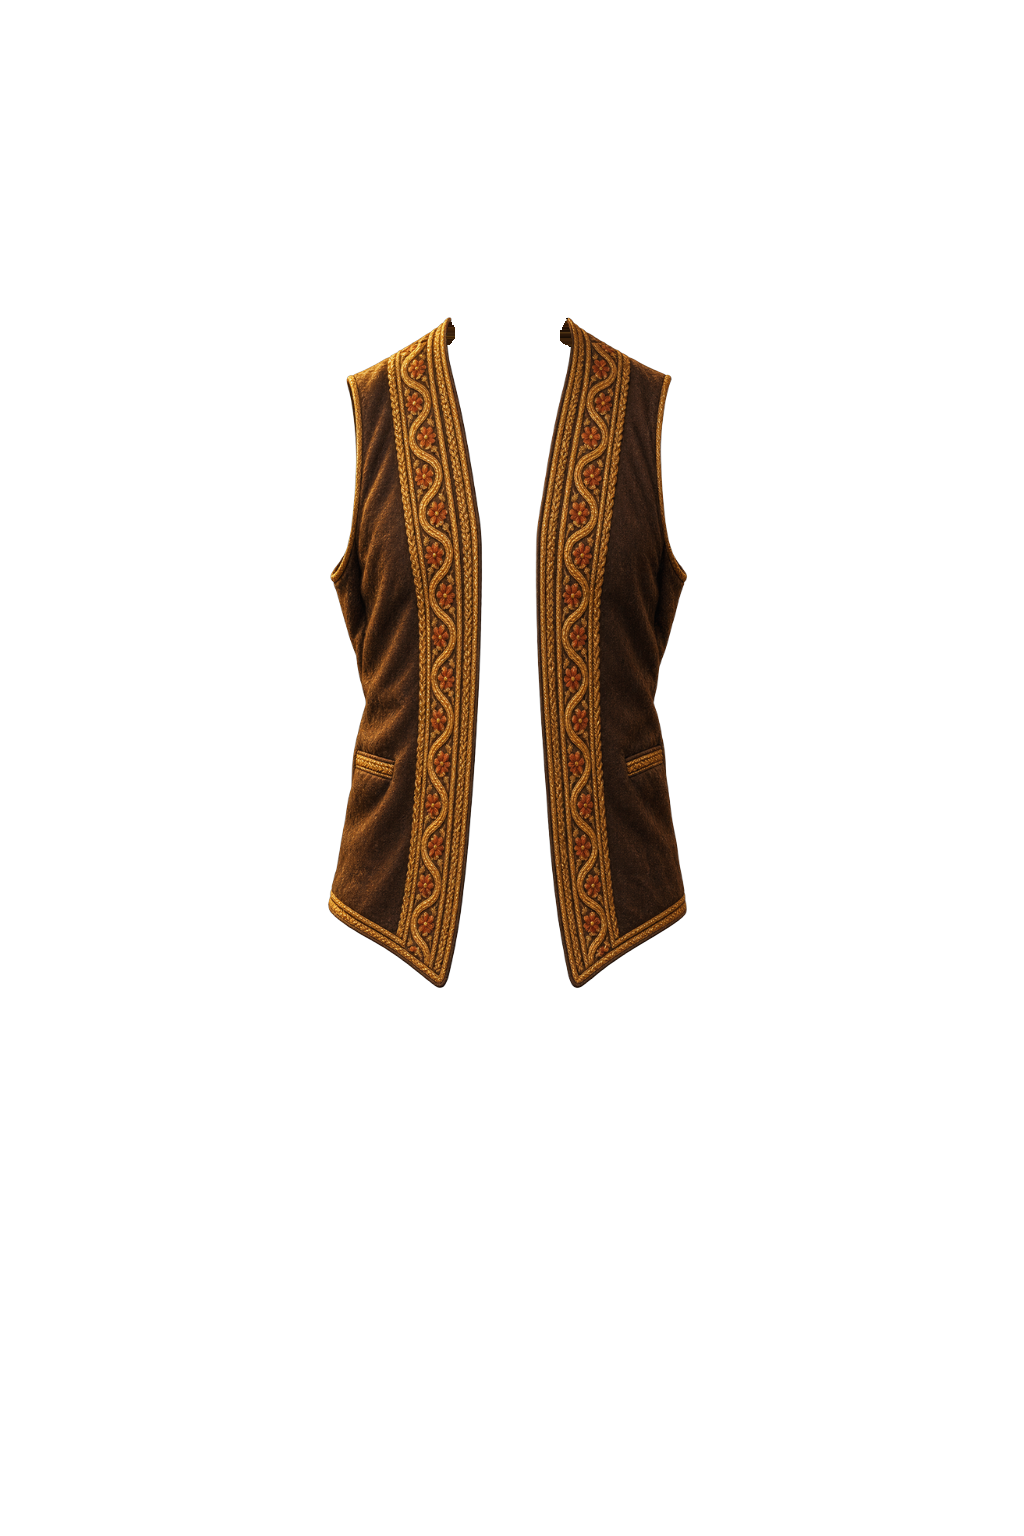
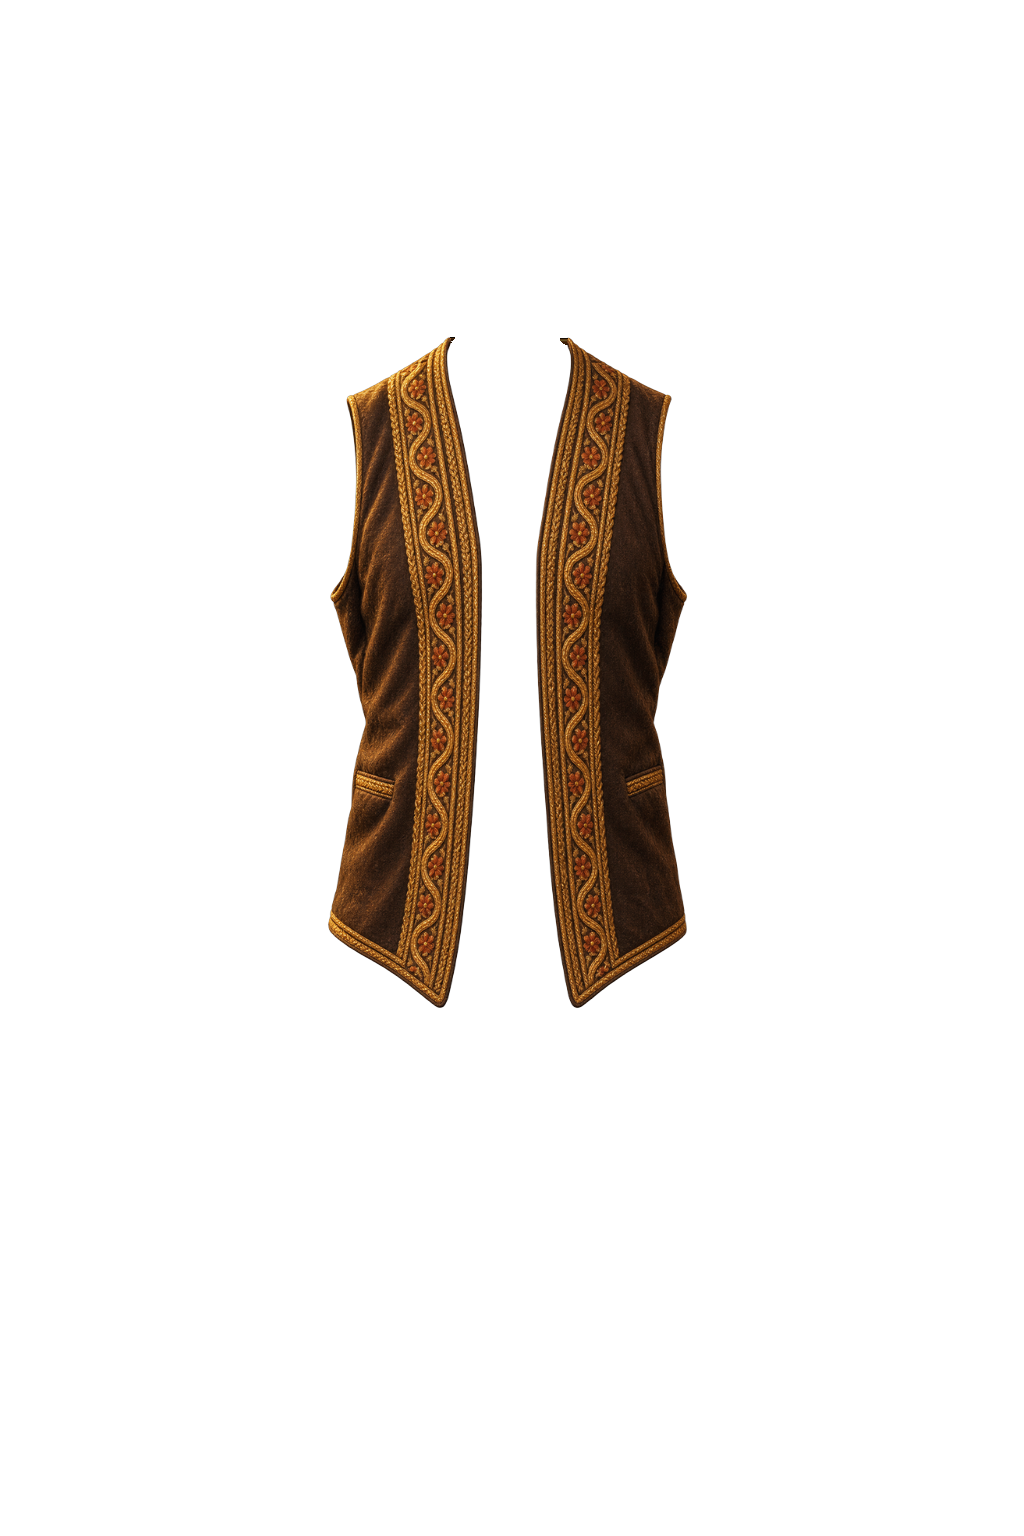
Wardrobe: vest rests on the shoulders; feet inside the shoes
- The vest's top edge rode up his neck. refit.py now sets it at the base of
  the neck, so it lies on his shoulders.
- tools/feet.py writes <shoe>-foot masks; while shoes are worn the base body
  is masked so his bare heel and toes no longer poke out around them, and he
  stands in the shoes instead of beside them.

Claude-Session: https://claude.ai/code/session_01RsyrrUsDDaKTV5xQN8SsoM

Changed region(s): [[0.3125, 0.1875, 0.4688, 0.6562], [0.5, 0.1875, 0.6875, 0.6562]]

diff --git a/src/components/Wardrobe/HeroFigure.tsx b/src/components/Wardrobe/HeroFigure.tsx
@@ -1,5 +1,5 @@
 import { useEffect, useMemo, useState } from 'react';
-import { PIECES, POSE_INFO, baseSrc, coverSrc, layerSrc, wornIds, type FitTable, type Outfit, type Pose } from '../../data/wardrobe';
+import { PIECES, POSE_INFO, baseSrc, coverSrc, footSrc, layerSrc, wornIds, type FitTable, type Outfit, type Pose } from '../../data/wardrobe';
 import { FIT } from '../../data/wardrobeFit';
 import './Wardrobe.css';
 
@@ -50,6 +50,12 @@ export function HeroFigure({ pose, outfit, fit = FIT, highlight, className = '',
   // a coat with sleeves hides the shirt under it outside its own outline
   const coat = outfit.outer && PIECES[outfit.outer]?.hidesUnder ? coverSrc(pose, outfit.outer) : null;
   const coatMask = useLoaded(coat);
+  // shoes hide his bare foot where it would poke out around them (full-length pose only)
+  const feet = pose === 'wardrobe' && outfit.feet && PIECES[outfit.feet] ? footSrc(pose, outfit.feet) : null;
+  const feetMask = useLoaded(feet);
+  const baseStyle: React.CSSProperties = feet && feetMask
+    ? { WebkitMaskImage: `url(${feet})`, maskImage: `url(${feet})`, WebkitMaskSize: '100% 100%', maskSize: '100% 100%', WebkitMaskRepeat: 'no-repeat', maskRepeat: 'no-repeat' }
+    : {};
   const layerImg = (p: (typeof layers)[number]) => {
     const src = layerSrc(pose, p.id);
     if (miss.has(src)) return null;
@@ -70,7 +76,7 @@ export function HeroFigure({ pose, outfit, fit = FIT, highlight, className = '',
           <span>Base picture not painted yet</span>
         </div>
       ) : (
-        <img className="hero-layer" src={base} alt="" onError={() => markMissing(base)} draggable={false} />
+        <img className="hero-layer" src={base} alt="" style={baseStyle} onError={() => markMissing(base)} draggable={false} />
       )}
       {!baseMissing && layers.filter((p) => p.z >= 0).map((p) => layerImg(p))}
     </div>

diff --git a/src/data/wardrobe.ts b/src/data/wardrobe.ts
@@ -222,6 +222,8 @@ export function wardrobeFromLegacy(owned: string[], worn: string): WardrobeState
 export const baseSrc = (pose: Pose) => `art/hero/hero-base-${pose}.webp`;
 export const layerSrc = (pose: Pose, id: string) => `art/hero/${pose}/${id}.webp`;
 export const coverSrc = (pose: Pose, id: string) => `art/hero/${pose}/${id}-cover.webp`;
+/** For shoes: a mask over the base body that hides his bare foot around the shoe (tools/feet.py). */
+export const footSrc = (pose: Pose, id: string) => `art/hero/${pose}/${id}-foot.webp`;
 
 /** Nudges for layers that came back from the generator a little off. Filled in from the wardrobe's fit mode. */
 export interface Fit { x: number; y: number; s: number }

diff --git a/tools/feet.py b/tools/feet.py
@@ -1,0 +1,85 @@
+#!/usr/bin/env python3
+"""Put his feet inside the shoes.
+
+  python3 tools/feet.py [<shoe id> ...]      (no ids = every pair; run after tools/refit.py)
+
+The shoes come from the image generator as empty shoes: the lining shows where his foot should
+go in, and his bare foot, drawn underneath, pokes out around them at the heel and toes.
+For each shoe this writes <id>-foot.png, a mask for the base body that hides his bare foot wherever it
+    shows below the top of the shoe outside it (the game applies it while the shoes are worn).
+"""
+import sys
+from pathlib import Path
+
+import numpy as np
+from PIL import Image
+from scipy import ndimage
+
+HERO = Path(__file__).resolve().parent.parent / 'public' / 'art' / 'hero'
+# painting his foot into the opening smeared skin over the shoe; left off
+OPENING_FILL = False
+SHOES = ['babouche', 'markub-red', 'oxfords', 'spectator', 'boots']
+base = np.array(Image.open(HERO / 'hero-base-wardrobe.png').convert('RGBA')).astype(np.float32)
+B = base[..., 3] > 40
+SKIN = B & ((base[..., 0] - base[..., 2]) > 80) & (base[..., 0] < 200)
+Hh, W = B.shape
+yy, xx = np.mgrid[0:Hh, 0:W]
+
+
+def shoes_of(a):
+    """Each shoe of the pair as its own mask (left and right of the picture)."""
+    A = a[..., 3] > 40
+    lab, n = ndimage.label(ndimage.binary_closing(A, iterations=2))
+    parts = [lab == i for i in range(1, n + 1)]
+    parts = [p for p in parts if p.sum() > 800]
+    return sorted(parts, key=lambda p: np.nonzero(p)[1].mean())
+
+
+def fit(pid):
+    f = HERO / 'wardrobe' / f'{pid}.png'
+    a = np.array(Image.open(f).convert('RGBA')).astype(np.float32)
+    out = a.copy()
+    hide = np.zeros((Hh, W), bool)
+    for shoe in shoes_of(a):
+        ys, xs = np.nonzero(shoe)
+        top = ys.min()
+        # the opening: shoe pixels in the columns where his ankle comes down into it,
+        # from the rim down to about a third of the shoe's height
+        cols = [x for x in range(xs.min(), xs.max() + 1)
+                if SKIN[max(0, top - 10): top - 1, x].mean() > 0.6 if top > 10]
+        if cols and OPENING_FILL:
+            xl, xr = min(cols), max(cols)
+            depth = max(10, int((ys.max() - top) * 0.34))
+            rim = np.array([np.nonzero(shoe[:, x])[0].min() if shoe[:, x].any() else top for x in range(xl, xr + 1)])
+            region = np.zeros((Hh, W), float)
+            for i, x in enumerate(range(xl, xr + 1)):
+                region[rim[i]: rim[i] + depth, x] = 1
+            region *= shoe
+            # keep the shoe's own rim edge (a few pixels) around the opening
+            inner = ndimage.binary_erosion(shoe, iterations=4)
+            region *= inner
+            region = ndimage.gaussian_filter(region, 1.6) * inner
+            depthf = np.clip((yy - top) / depth, 0, 1)
+            shade = 0.9 - 0.3 * depthf
+            fill = base[..., :3] * shade[..., None]
+            k = region * B
+            out[..., :3] = out[..., :3] * (1 - k[..., None]) + fill * k[..., None]
+        # bare foot outside the shoe, below its rim: hide it on the base body
+        near = np.zeros((Hh, W), bool)
+        x0, x1 = max(0, xs.min() - 40), min(W, xs.max() + 40)
+        near[top + 6:, x0:x1] = True
+        hide |= near & B & ~ndimage.binary_dilation(shoe, iterations=1)
+    Image.fromarray(out.clip(0, 255).astype(np.uint8)).save(f, optimize=True)
+    # mask for the base body: opaque = keep, clear = hide (feathered one pixel)
+    keep = 1 - ndimage.gaussian_filter(hide.astype(float), 0.8)
+    m = np.zeros((Hh, W, 4), np.uint8)
+    m[..., :3] = 255
+    m[..., 3] = (keep * 255).clip(0, 255).astype(np.uint8)
+    Image.fromarray(m).save(HERO / 'wardrobe' / f'{pid}-foot.png', optimize=True)
+    print(f'{pid}: feet in, {int(hide.sum())} px of bare foot hidden')
+
+
+if __name__ == '__main__':
+    for pid in sys.argv[1:] or SHOES:
+        if (HERO / 'wardrobe' / f'{pid}.png').exists():
+            fit(pid)

diff --git a/tools/refit.py b/tools/refit.py
@@ -9,6 +9,7 @@ body (sleeves standing off his arms, trouser legs wider than his legs) while sti
 the piece covered before. Shoes are fitted one at a time so each covers its whole foot, sole on
 the floor. A coat's -cover.png mask gets the same move as the coat.
 
+Afterwards run tools/feet.py for shoes and tools/webp.py.
 Originals are kept in <scratch>/_raw (pass RAW=dir in the environment), never overwritten twice.
 """
 import os
@@ -98,6 +99,9 @@ def warp(img, ax, ay, sx, sy, dx, dy, box=None):
 
 
 WAIST = int(H * 0.47)
+# the base of his neck: the narrowest row between chin and shoulders, a few px lower
+_w = [(B[r].sum(), r) for r in range(int(H * 0.17), int(H * 0.25))]
+NECK_BASE = min(_w)[1] + 10
 
 
 def let_down(img, pivot, hem):
@@ -169,6 +173,9 @@ def fit_body(pid, legs):
     if not best:
         print(f'{pid}: no fit keeps it covering him; left as is'); return
     _, sx, sy, dx, dy = best
+    if pid in SLEEVELESS:
+        # a vest rests on the shoulders: its top sits at the base of his neck, not up the neck
+        dy = (NECK_BASE - py.min() * Q) / Q
     mv = (CX, ay * Q, sx, sy, dx * Q, dy * Q)
     out = warp(img, *mv)
     if pid in ANKLE_LENGTH:

diff --git a/tools/webp.py b/tools/webp.py
@@ -16,8 +16,8 @@ for png in sorted(HERO.rglob('*.png')):
         continue
     webp = png.with_suffix('.webp')
     im = Image.open(png).convert('RGBA')
-    # cover masks only carry an outline: keep them exact
-    im.save(webp, 'WEBP', lossless=png.stem.endswith('-cover'), quality=90, method=6, alpha_quality=100)
+    # masks only carry an outline: keep them exact
+    im.save(webp, 'WEBP', lossless=png.stem.endswith(('-cover', '-foot')), quality=90, method=6, alpha_quality=100)
     before += png.stat().st_size
     after += webp.stat().st_size
 print(f'{before / 1e6:.1f} MB of PNG -> {after / 1e6:.1f} MB of WebP')
